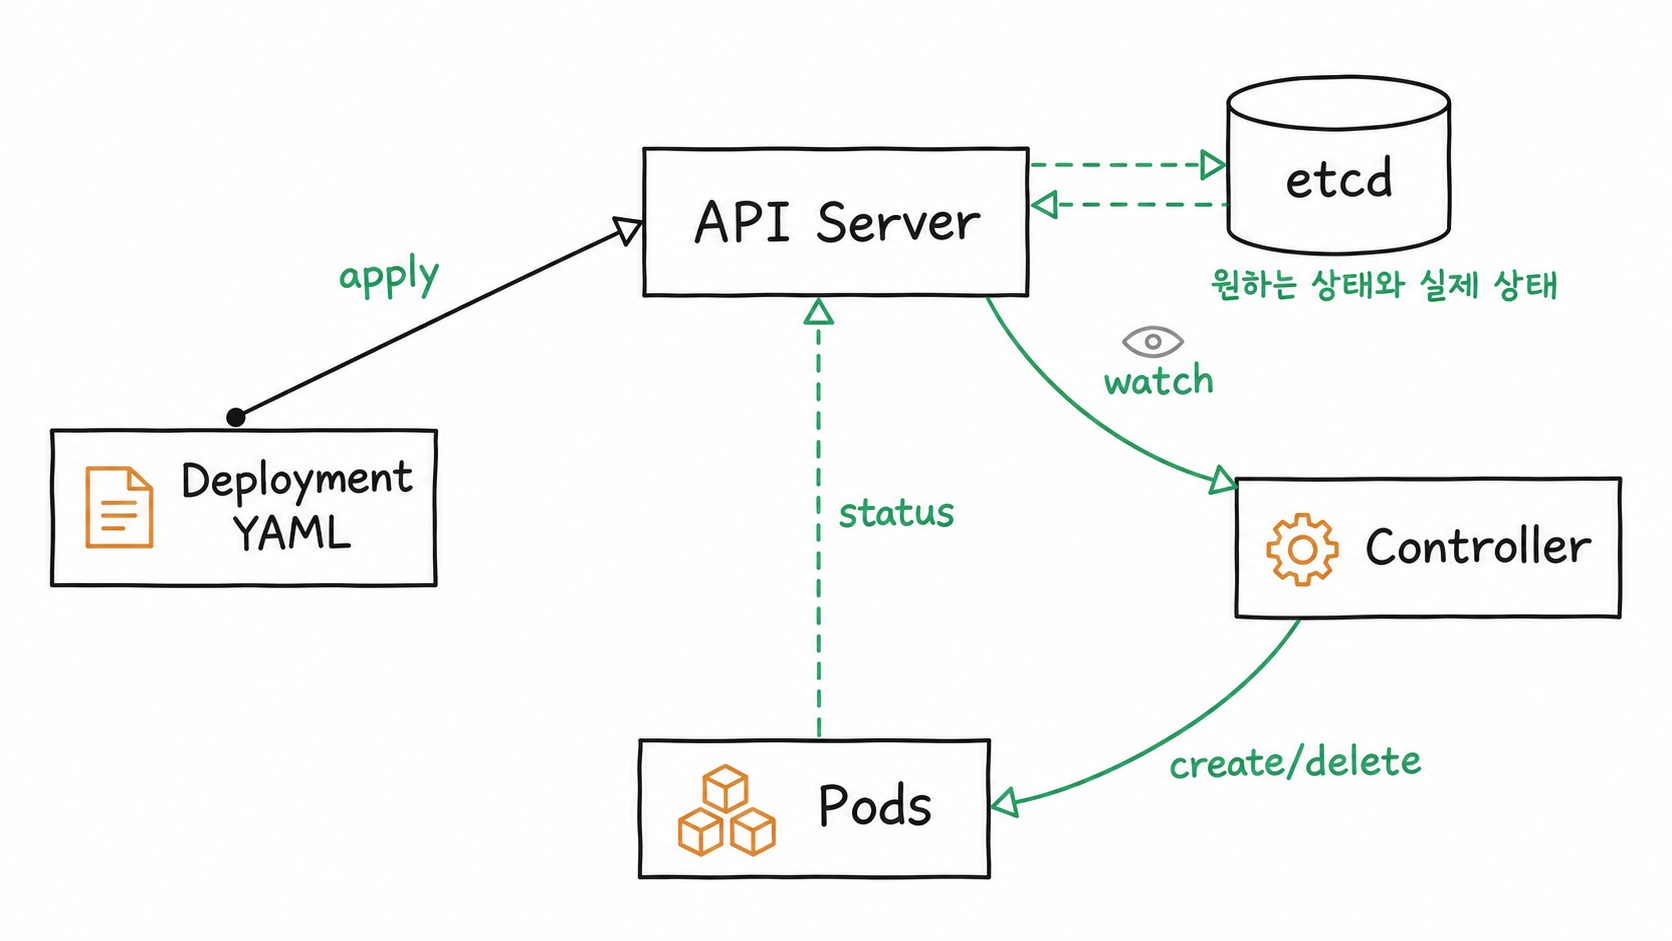
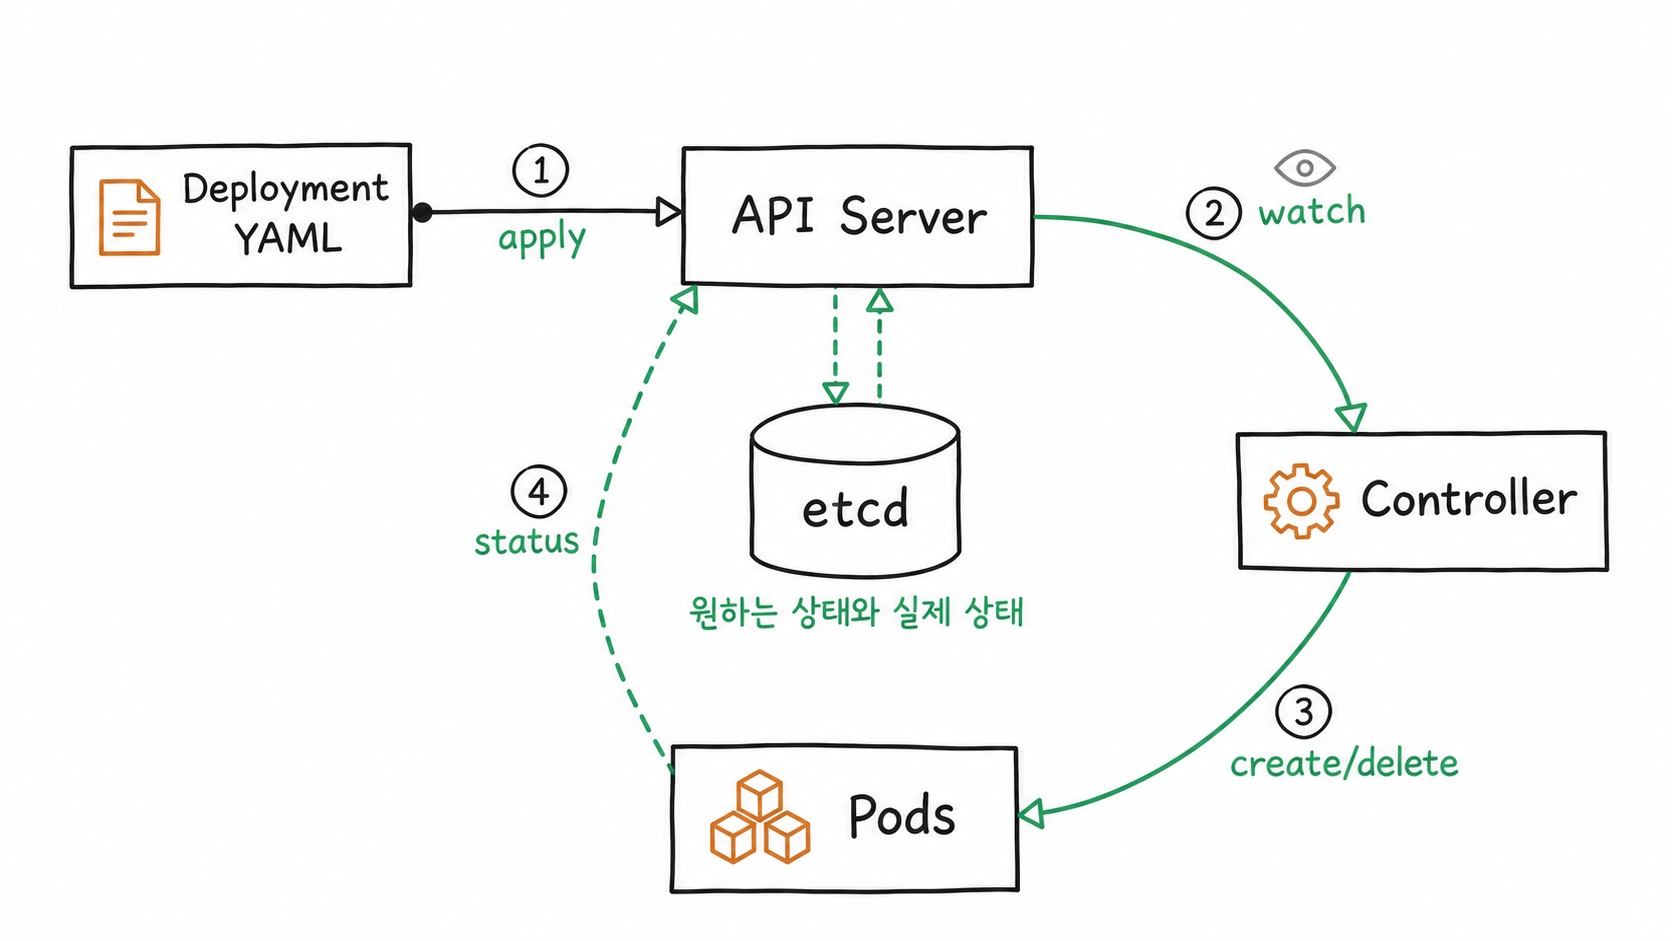
feat(akbun-draw): haru 화살표에 순서 번호(step) 추가하고 예시 이미지 재생성

diff --git a/plugins/akbun-draw/skills/akbun-draw-diagram-haru/scripts/haru_prompt.py b/plugins/akbun-draw/skills/akbun-draw-diagram-haru/scripts/haru_prompt.py
@@ -38,6 +38,7 @@ def check(spec):
     ids = [n.get("id") for n in nodes]
     names = [name(n) for n in nodes]
     labeled = [e for e in es if e.get("label")]
+    steps = [e["step"] for e in es if "step" in e]
     linked = {e.get("from") for e in es} | {e.get("to") for e in es}
     words = len(spec.get("subject", "").split())
     free = " ".join([spec.get("subject", "")] + names + [e.get("label", "") for e in es] + [x.get("text", "") for x in notes])
@@ -64,6 +65,8 @@ def check(spec):
         ("main count", 1 <= sum(e.get("kind") == "main" for e in es) <= 3, "main 화살표 1~3개(경계 포함)"),
         ("edge labels", len(labeled) <= 5 and all(text_ok(e["label"], 14) for e in labeled),
          f"이름 붙은 화살표 {len(labeled)}개, 0~5개, 각 1~14자"),
+        ("steps", all(type(n) is int for n in steps) and sorted(steps) == list(range(1, len(steps) + 1)) and len(steps) != 1,
+         f"step {steps}: 없거나, 2개 이상이면 1부터 빠짐없이 이어지는 정수"),
         ("edge icons", all(e.get("label") and e["icon"] in icons for e in es if "icon" in e), "화살표 아이콘은 label이 있을 때만, icons.jsonl id"),
         ("all linked", set(ids) <= linked, f"화살표가 닿지 않은 도형: {sorted(set(ids) - linked)}"),
         ("notes", len(notes) <= 2 and all(x.get("node") in ids and text_ok(x.get("text", ""), 32) for x in notes),
@@ -94,6 +97,8 @@ def build(spec):
     def arrow(i, e):
         line = edges[e["kind"]]["prompt"].format(**p)
         out = f"{i}. from {q(by_id[e['from']])} to {q(by_id[e['to']])}: {line}"
+        if "step" in e:
+            out += f', with a small hollow {p["ink"]} circle holding the number "{e["step"]}" in {p["ink"]} near the middle of the line'
         if e.get("label"):
             out += f', labeled "{e["label"]}" in small {p["accent"]} lettering beside the line'
             if "icon" in e:
@@ -165,6 +170,12 @@ def selftest():
     assert "tiers" in {n for n, ok, _ in check(dict(tiered, layout="hub"))  if not ok}
     assert "labels" in {n for n, ok, _ in check(dict(good, nodes=[dict(good["nodes"][1], label="DB")] + good["nodes"][2:] + good["nodes"][:1])) if not ok}
     assert "halves" in {n for n, ok, _ in check(dict(twin, nodes=[dict(n, half="left") for n in twin["nodes"]])) if not ok}
+    numbered = dict(good, edges=[dict(e, step=i) for i, e in enumerate(good["edges"][:2], 1)] + good["edges"][2:])
+    assert score(check(numbered)) == 100, check(numbered)
+    assert 'circle holding the number "2"' in build(numbered) and "circle holding" not in build(good)
+    for bad_steps in ((1, 3), (2, 3), (1, 1), (1,)):
+        e2 = [dict(e, step=n) for e, n in zip(good["edges"], bad_steps)] + good["edges"][len(bad_steps):]
+        assert "steps" in {n for n, ok, _ in check(dict(good, edges=e2)) if not ok}, bad_steps
     assert "main count" in {n for n, ok, _ in check(dict(good, edges=[dict(e, kind="sync") for e in good["edges"]])) if not ok}
     print("selftest ok")
 

diff --git a/plugins/akbun-draw/skills/akbun-draw-diagram-haru/SKILL.md b/plugins/akbun-draw/skills/akbun-draw-diagram-haru/SKILL.md
@@ -41,7 +41,7 @@ disable-model-invocation: true
 | `palette`, `layout` | jsonl의 `id` |
 | `subject` | 무엇을 설명하는 그림인지 영어 6~30단어(공백으로 나눈 단어 수, 경계 포함) |
 | `nodes` | `[{"id", "label", "shape", "icon"?, "half"?, "tier"?}]`. 개수는 배치의 `nodes` 범위(경계 포함). `id`는 spec 안에서만 쓰는 영어 짧은 이름, 중복 없이. `label`은 1~2줄 목록, 줄마다 1~12자(공백 포함). 도형 `icon`은 그림 전체에서 3개까지(화살표 `icon`은 따로 센다). `half`는 `split`일 때만 `left`·`right`로, `tier`는 `layers`일 때만 1~4(1이 맨 위, 2개 층 이상)로 모든 도형에 붙이고, 다른 배치에서는 쓰지 않는다. 두 판에 같은 이름 도형이 있어도 된다(화살표는 도형 번호로 가리킨다) |
-| `edges` | `[{"from", "to", "kind", "label"?, "icon"?}]` 1~12개. `from`·`to`는 서로 다른 도형 `id`. `label`은 1~14자, 그림 전체에서 5개까지이므로 화살표만 보고 뜻을 알 수 없는 곳에 먼저 붙인다. `icon`은 `label`이 있을 때만. 모든 도형에 화살표가 하나 이상 닿아야 한다 |
+| `edges` | `[{"from", "to", "kind", "label"?, "icon"?}]` 1~12개. `from`·`to`는 서로 다른 도형 `id`. `label`은 1~14자, 그림 전체에서 5개까지이므로 화살표만 보고 뜻을 알 수 없는 곳에 먼저 붙인다. `icon`은 `label`이 있을 때만. `step`은 화살표가 순서대로 일어나는 흐름일 때 그 순서대로 1부터 빠짐없이 붙이는 정수로, 선 가운데에 원 안 번호로 그려진다. 순서와 무관한 화살표(저장소 동기화 등)에는 붙이지 않고, 2개 미만이면 쓰지 않는다. 모든 도형에 화살표가 하나 이상 닿아야 한다 |
 | `notes` | `[{"node", "text"}]` 0~2개. 도형 바로 아래 작은 강조색 메모, 1~32자. 이름과 화살표로 안 보이는 사실(담는 것·수치·조건)이 있을 때만 |
 
 글자(`label`·`text`)는 영어 또는 한글만, 큰따옴표 없이 쓴다. 이미지 생성 모델은 짧은 영어를 가장 정확히 쓰므로 제품·기술 이름은 영어로 두고(12자가 넘으면 두 줄로 나누거나 줄임말), 한글은 메모처럼 꼭 필요한 곳에만 쓴다. 실제 제품 로고 대신 이름 글자와 `icon`으로 나타낸다.
@@ -80,7 +80,7 @@ cd haru-output/<작업명> && codex exec --skip-git-repo-check -s workspace-writ
 
 - 도형 안이 비어 있고(흰색) 색 면·그림자·3D가 없다.
 - 화살표 머리가 속 빈 삼각형이고, `main`은 검정 실선, `call`·`sync`는 강조색이다.
-- spec에 없는 글자(제목·범례·설명)가 없고, 있는 글자의 철자가 맞다.
+- spec에 없는 글자(제목·범례·설명)가 없고, 있는 글자의 철자와 `step` 번호가 맞다.
 - 실제 제품 로고·마스코트·캐릭터와 닮은 그림이 없다.
 
 ## 결과 보고
